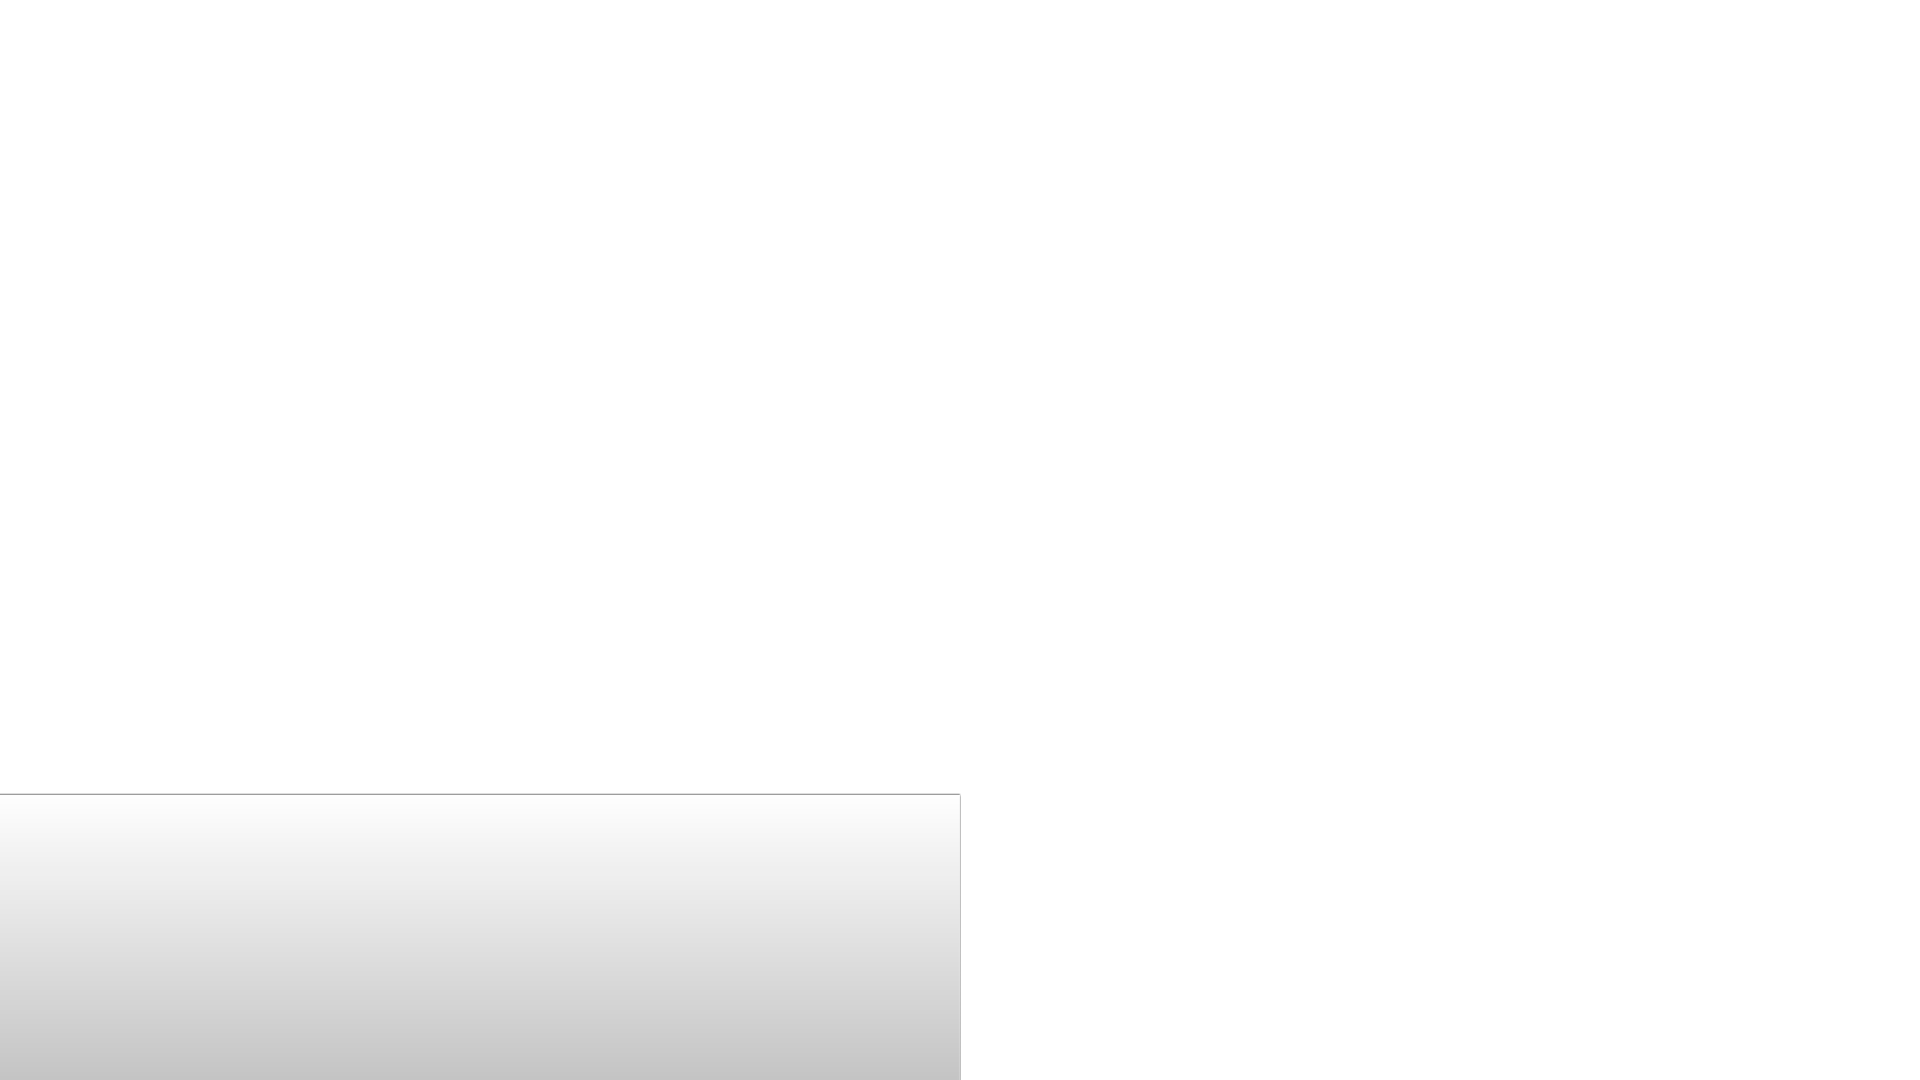
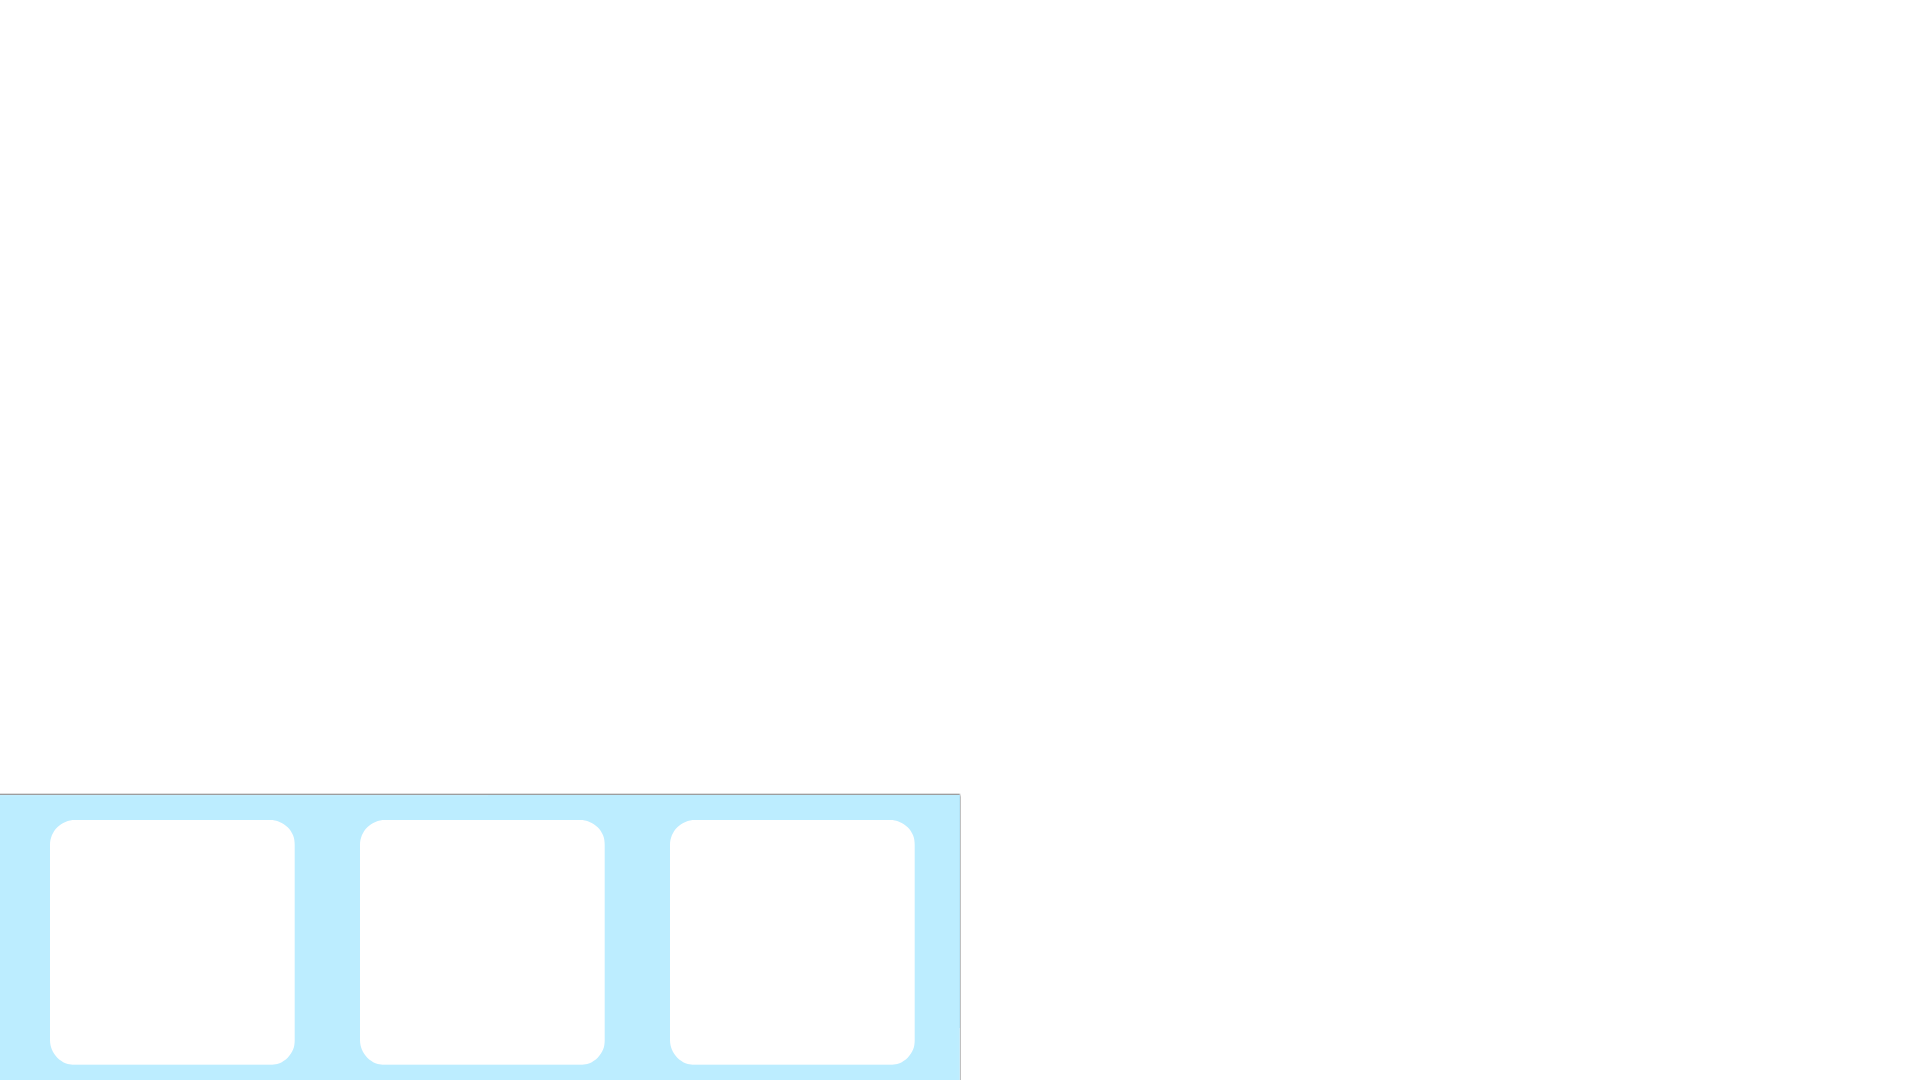
Update

Changed region(s): [[0.0, 0.7333, 0.5, 1.0]]

diff --git a/Final/main.c b/Final/main.c
@@ -29,9 +29,9 @@
 #define LADO_DADO 100
 #define OFFSET_INTRA_DADO 15
 
-#define FILA_ANCORA_ESQUERDA_X 50
+#define FILA_ANCORA_ESQUERDA_X 65
 #define FILA_OFFSET_X 310
-#define FILA_ANCORA_Y 850
+#define FILA_ANCORA_Y 835
 
 #define MATRIZ_ANCORA_X 150
 #define MATRIZ_ANCORA_Y 200
@@ -1012,7 +1012,7 @@ void jogo(ALLEGRO_DISPLAY* display, int restaura)
         al_draw_textf(font_play_bold_24, BRANCO, LARGURA_TELA/2 + OFFSET_PROGRESS_BARS, MATRIZ_ANCORA_Y+ALTURA_PROGRESS_BARS+OFFSET_PROGRESS_BARS*2.25, 0, "Bombas: %d", bombas);
 
         al_draw_filled_rectangle(LARGURA_TELA/2 + OFFSET_PROGRESS_BARS + 20, 
-                                MATRIZ_ANCORA_Y+ALTURA_PROGRESS_BARS*2+OFFSET_PROGRESS_BARS*4+10, LARGURA_TELA/2 + OFFSET_PROGRESS_BARS + 20 + LARG_PROGRESS_BARS_INT*(controlador_bonus.combo_multi%10)/10, 
+                                MATRIZ_ANCORA_Y+ALTURA_PROGRESS_BARS*2+OFFSET_PROGRESS_BARS*4+10, LARGURA_TELA/2 + OFFSET_PROGRESS_BARS + 20 + LARG_PROGRESS_BARS_INT*(controlador_bonus.tabs_concl%5)/5, 
                                 MATRIZ_ANCORA_Y+OFFSET_PROGRESS_BARS*4+ALTURA_PROGRESS_BARS*3-10, BRANCO);
         al_draw_bitmap(progress_bar_green, LARGURA_TELA/2 + OFFSET_PROGRESS_BARS, MATRIZ_ANCORA_Y+ALTURA_PROGRESS_BARS*2+OFFSET_PROGRESS_BARS*4, 0);
         char string_undo[64];
@@ -1087,6 +1087,8 @@ void jogo(ALLEGRO_DISPLAY* display, int restaura)
                 bombas--;
                 controlador_bonus.combo_multi -= 10;
                 atualiza_matriz(matriz, cell, red, blue, yellow, green, purple);
+                somatorios(matriz, soma_linha, soma_coluna);
+                checa_soma(display, matriz, soma_linha, soma_coluna, &controlador, &controlador_bonus);
             }
         }
         
@@ -1097,20 +1099,18 @@ void jogo(ALLEGRO_DISPLAY* display, int restaura)
             if (usou_undo)
             {
                 tem_undo = false;
+                controlador_bonus.tabs_concl = 0;
+
                 undo_estado_dados(previous_fila_dados, previous_matriz, fila_dados, matriz);
                 controlador = previous_controlador;
                 controlador_bonus = previous_controlador_bonus;
 
                 posiciona_dados(fila_dados, red, blue, yellow, green, purple);
                 atualiza_matriz(matriz, cell, red, blue, yellow, green, purple);
+                somatorios(matriz, soma_linha, soma_coluna);
             }
         }
         
-        
-        
-        
-        
-
 
         pause_click = botao_pequeno(LARGURA_TELA-LARG_BOTAO_PEQ-OFFSET_BOTAO_PEQ_X, OFFSET_BOTAO_PEQ_Y, botao_menu_peq, x_mouse, y_mouse, click);
 
